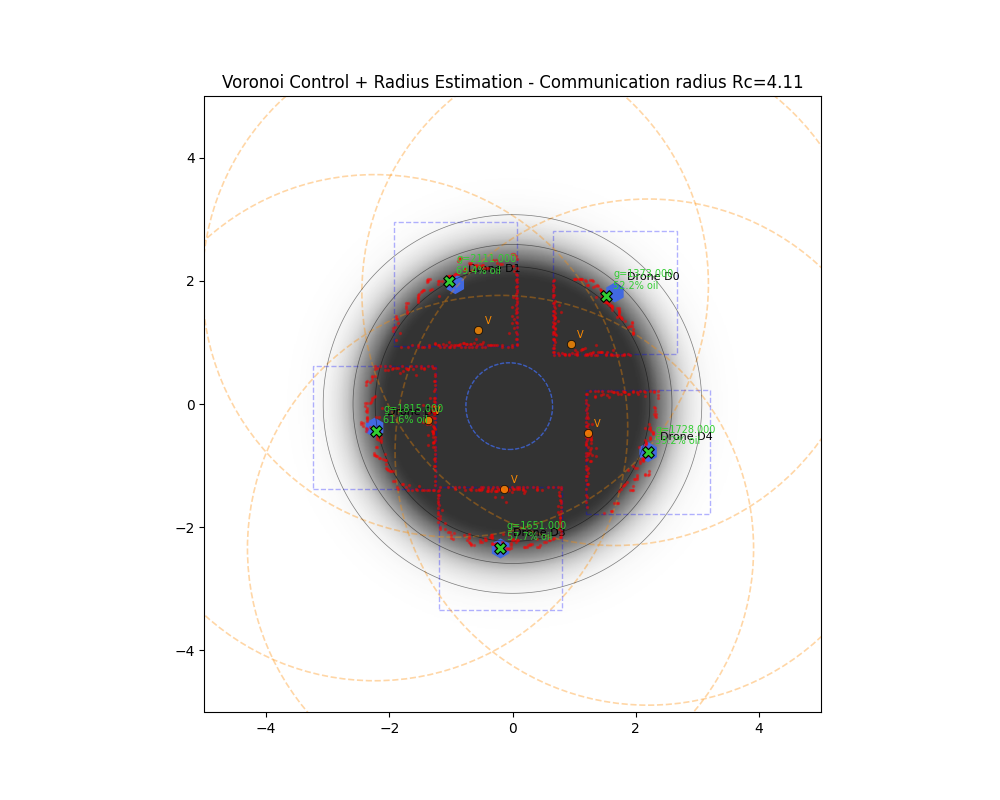
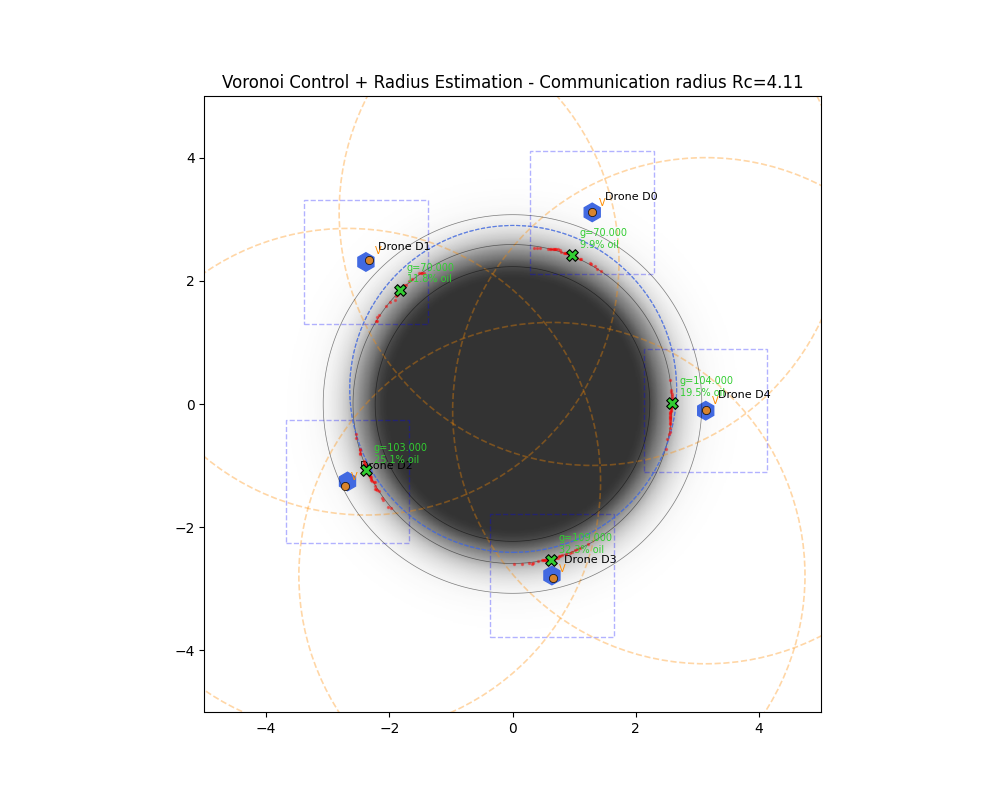
edge problem fixed

diff --git a/edge_detection.py b/edge_detection.py
@@ -3,7 +3,7 @@ import cv2
 
 
 def _to_uint8_grayscale(image: np.ndarray) -> np.ndarray:
-    """Convert an image to a single-channel uint8 array for Canny."""
+    """Convert an image to a single-channel uint8 array for processing."""
     img = np.asarray(image)
 
     if img.ndim == 3 and img.shape[2] == 3:
@@ -22,8 +22,7 @@ def _to_uint8_grayscale(image: np.ndarray) -> np.ndarray:
 
 def extract_outer_boundary(points: np.ndarray, num_bins: int = 180) -> np.ndarray:
     """
-    Extract the outermost boundary points by converting to polar coordinates
-    and keeping the point with the maximum radius for each angular bin.
+    Refine a set of points to a 1-pixel wide exterior shell using polar discretization.
     """
     if points.size == 0 or len(points) < 5:
         return points
@@ -32,43 +31,33 @@ def extract_outer_boundary(points: np.ndarray, num_bins: int = 180) -> np.ndarra
     rows = points[:, 0]
     cols = points[:, 1]
 
-    # A. Estimate a provisional center
-    # cx = mean(x_i), cy = mean(y_i)
+    # center is mean of points
     cy = np.mean(rows)
     cx = np.mean(cols)
 
-    # B. Convert points to polar coordinates
-    # r_i = sqrt((x_i - cx)^2 + (y_i - cy)^2)
-    # theta_i = atan2(y_i - cy, x_i - cx)
+    # Polar coordinates
     dy = rows - cy
     dx = cols - cx
     r = np.sqrt(dx**2 + dy**2)
-    theta = np.arctan2(dy, dx)  # theta in [-pi, pi]
+    theta = np.arctan2(dy, dx)
 
-    # C. Discretize angles into fixed bins
     bins = ((theta + np.pi) / (2 * np.pi) * num_bins).astype(int)
     bins = np.clip(bins, 0, num_bins - 1)
 
-    # D. Radial MAX selection: For each bin, keep ONLY the point with maximum radius
-    # To handle multiple points in a bin efficiently:
-    # Sort indices by bin (primary) and radius (secondary, descending)
     idx_sorted = np.lexsort((-r, bins))
     bins_sorted = bins[idx_sorted]
     
-    # Keep only the first occurrence of each bin (which is the one with max radius)
     _, first_occurrences = np.unique(bins_sorted, return_index=True)
     filtered_indices = idx_sorted[first_occurrences]
     
     boundary_points = points[filtered_indices]
 
-    # E. Robustness: Outlier rejection using Median Absolute Deviation (MAD)
+    # Outlier rejection
     if len(boundary_points) > 10:
-        # Recompute radius from center for these boundary points
         br = np.sqrt((boundary_points[:, 0] - cy)**2 + (boundary_points[:, 1] - cx)**2)
         med = np.median(br)
         mad = np.median(np.abs(br - med))
         if mad > 0:
-            # Keep points within 3.0 MAD from the median radius
             mask = np.abs(br - med) < 3.0 * mad
             boundary_points = boundary_points[mask]
 
@@ -77,48 +66,82 @@ def extract_outer_boundary(points: np.ndarray, num_bins: int = 180) -> np.ndarra
 
 def detect_edges(
     image: np.ndarray,
-    threshold1: int = 20,
-    threshold2: int = 60,
+    threshold1: int = 30,
+    threshold2: int = 90,
     blur_kernel: tuple[int, int] = (5, 5),
     blur_sigma: float = 1.2,
-    apply_morphology: bool = False,
+    apply_morphology: bool = True,
 ) -> np.ndarray:
-    """Detect edges with Gaussian smoothing followed by Canny."""
-    gray = _to_uint8_grayscale(image)
-    # Normalize contrast so Canny can work reliably on soft camera matrices.
-    gray = cv2.normalize(gray.astype(np.float32), None, 0, 255, cv2.NORM_MINMAX).astype(np.uint8)
-    smoothed = cv2.GaussianBlur(gray, blur_kernel, blur_sigma)
-
-    edges = cv2.Canny(smoothed, threshold1, threshold2)
-
-    if apply_morphology:
-        kernel = np.ones((3, 3), dtype=np.uint8)
-        edges = cv2.morphologyEx(edges, cv2.MORPH_CLOSE, kernel)
-
+    """
+    Isolates the oil spill boundary by thresholding and topological analysis.
+    This replaces standard Canny detection to avoid rectangular FOV artifacts.
+    """
+    # 1) Robust Smoothing
+    # We use a significant blur to suppress sensor noise before thresholding
+    smoothed = cv2.GaussianBlur(image.astype(np.float32), (11, 11), 1.5)
+    
+    # 2) Binary Segmentation (Thresholding Oil vs Water)
+    # The oil is modeled as 1.0, water as 0.0. 0.5 is a robust threshold.
+    _, binary = cv2.threshold(smoothed, 0.5, 1.0, cv2.THRESH_BINARY)
+    binary = (binary * 255).astype(np.uint8)
+    
+    # 3) Extract Boundary using Canny on the smoothed binary image
+    # This guarantees a single, clean transition line.
+    edges = cv2.Canny(binary, 50, 150)
+    
+    # Store images for extract_edge_points to leverage for FOV-clipping
+    detect_edges._last_gray = binary 
+    
     return edges.astype(np.uint8)
 
 
 def extract_edge_points(edges: np.ndarray, debug: bool = False) -> np.ndarray:
-    """Return edge pixel coordinates as (row, col) pairs, filtered for outer boundary."""
-    # Wherever edge points are currently returned:
-    raw_points = np.column_stack(np.where(edges > 0))
+    """Return coordinates of the primary oil-water arc, ignoring FOV-boundary clipped edges."""
     
-    if raw_points.size == 0:
-        return raw_points
+    h, w = edges.shape
+    
+    # 1) Find all external contours in the edge image
+    contours, _ = cv2.findContours(edges, cv2.RETR_EXTERNAL, cv2.CHAIN_APPROX_NONE)
+    
+    if not contours:
+        return np.empty((0, 2))
+    
+    # Combined Point Cloud from all external contours
+    all_contour_points = []
+    for cnt in contours:
+        # contour is (N, 1, 2) [x, y]
+        pts = cnt.reshape(-1, 2)
+        
+        # 2) FOV CLIP FILTER: Remove points that are exactly on the image border
+        # False edges from sensor limits always occur at the perimeter (row 0, row h-1, etc.)
+        # We use a 3-pixel margin for safety.
+        mask = (pts[:, 1] > 2) & (pts[:, 1] < h - 3) & \
+               (pts[:, 0] > 2) & (pts[:, 0] < w - 3)
+        
+        clipped_pts = pts[mask]
+        if clipped_pts.size > 0:
+            all_contour_points.append(clipped_pts)
 
-    # Transform the edge detection into an OUTER-BOUNDARY extractor.
-    filtered_points = extract_outer_boundary(raw_points)
+    if not all_contour_points:
+        return np.empty((0, 2))
+    
+    # Merge valid arcs
+    points_merged = np.vstack(all_contour_points)
+    
+    # Swap (x, y) -> (row, col)
+    res_points = np.column_stack([points_merged[:, 1], points_merged[:, 0]])
+    
+    # 3) Final refinement: extract the outermost shell of the detected arc
+    # This helps if small internal 'bubbles' survived.
+    final_points = extract_outer_boundary(res_points)
     
     if debug:
         import matplotlib.pyplot as plt
-        plt.figure("Outer Boundary Detection Debug", figsize=(6, 6))
-        # Swap x (col) and y (row) for plotting
-        plt.scatter(raw_points[:, 1], raw_points[:, 0], c='red', s=1, alpha=0.4, label='Raw Points')
-        plt.scatter(filtered_points[:, 1], filtered_points[:, 0], c='green', s=10, label='Outer Boundary')
-        plt.gca().invert_yaxis()  # Invert for image coordinates
+        plt.figure("Contour Refinement Debug", figsize=(6,6))
+        plt.scatter(res_points[:, 1], res_points[:, 0], c='red', s=5, label='Filtered Arcs')
+        plt.scatter(final_points[:, 1], final_points[:, 0], c='green', s=10, label='Final Boundary')
+        plt.gca().invert_yaxis()
         plt.axis('equal')
-        plt.legend()
-        plt.title(f"Outer Boundary Estimation (n={len(filtered_points)})")
         plt.show()
 
-    return filtered_points
+    return final_points
